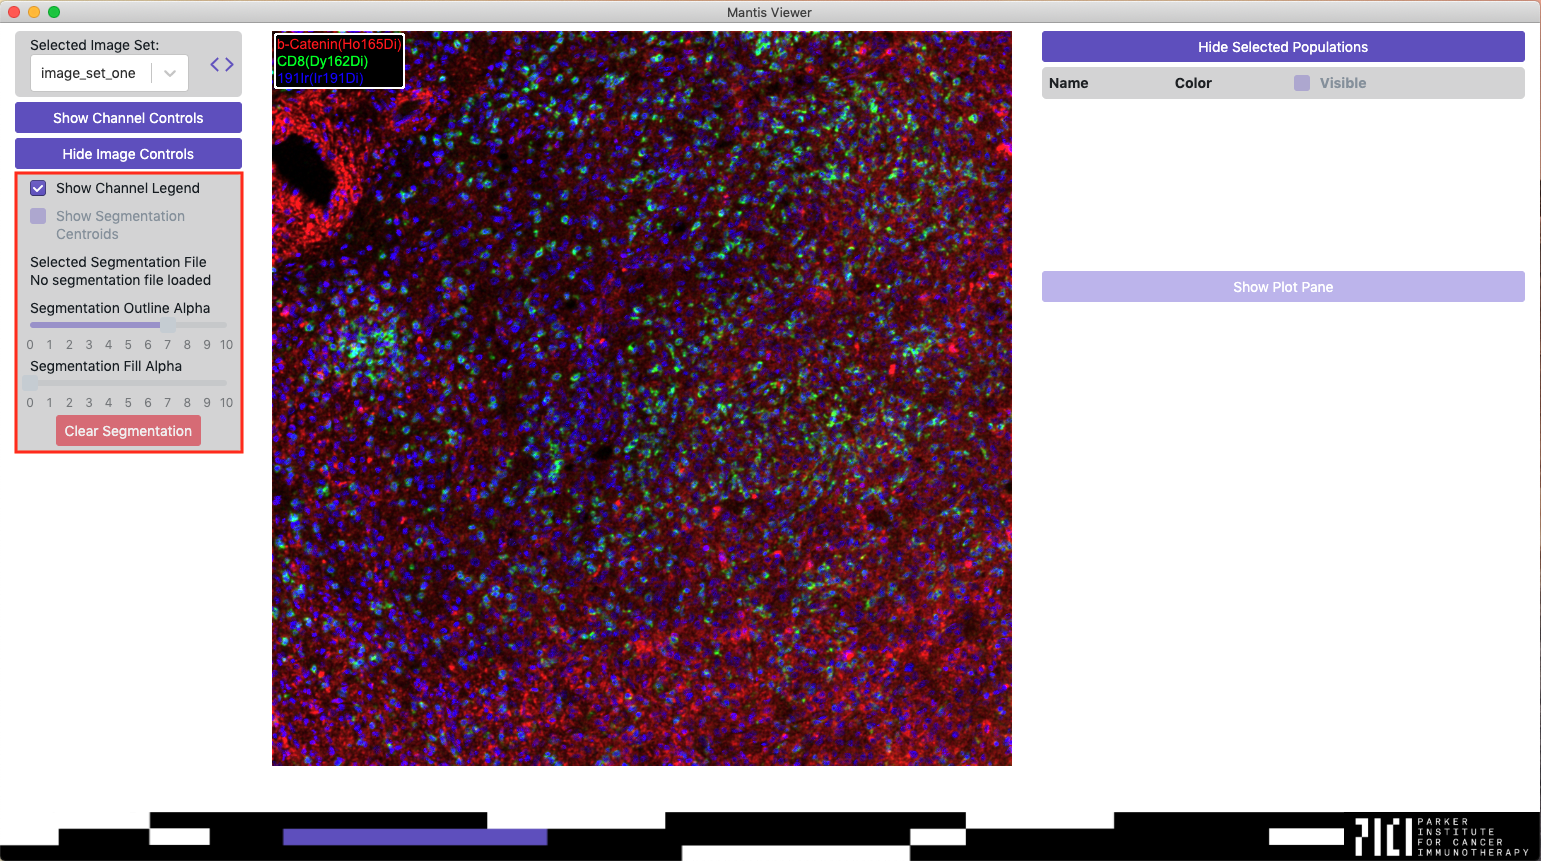
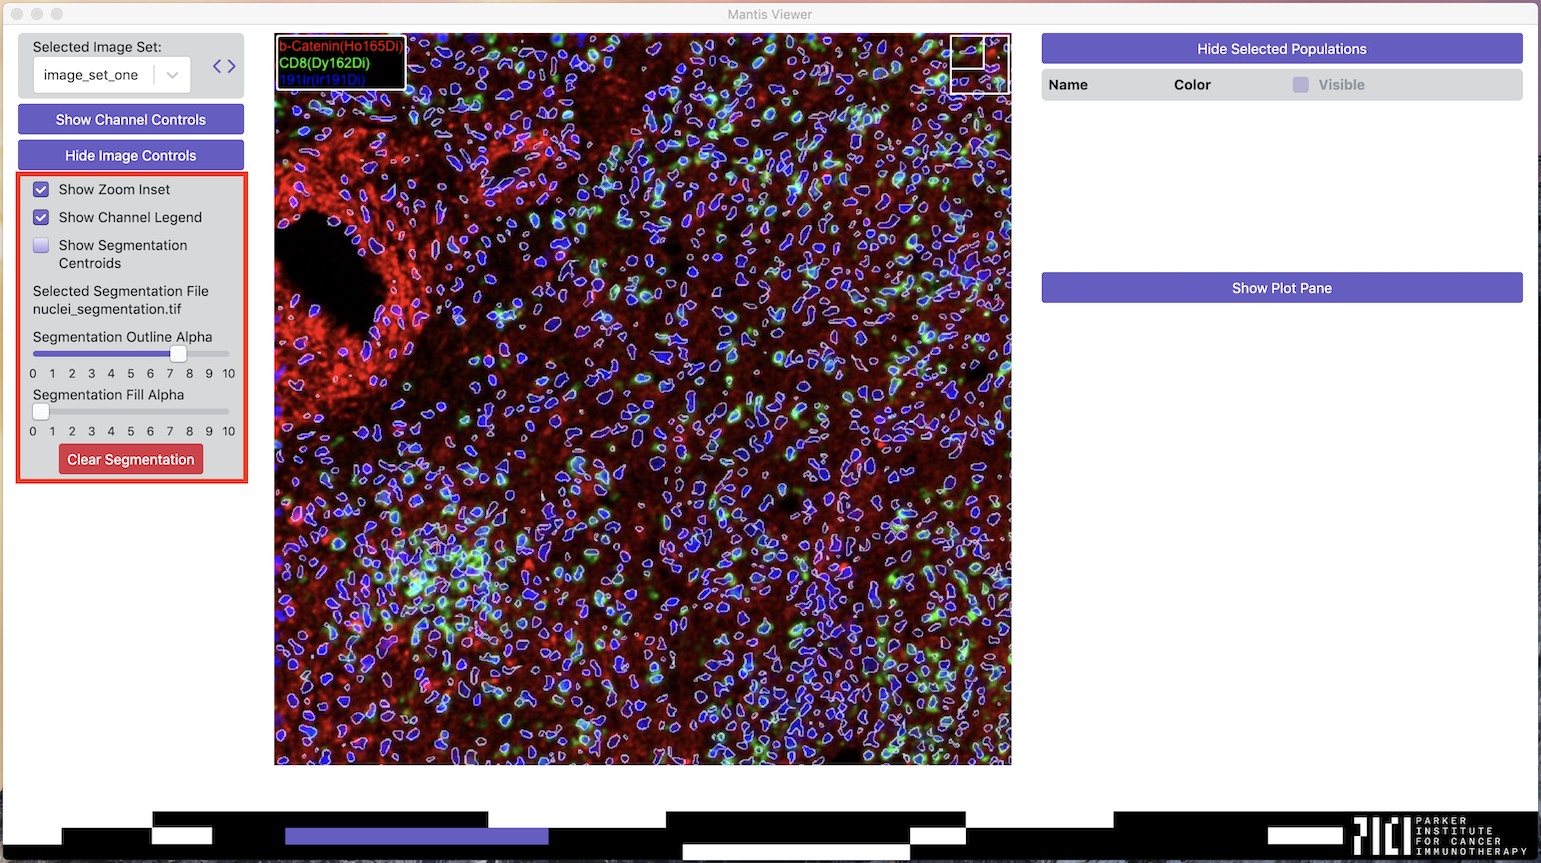
Update docs with zoom inset info.

diff --git a/images.md b/images.md
@@ -63,7 +63,7 @@ Other image controls that do not affect the channels can be accessed by clicking
 
 ![Image Controls](images/image_controls.png)
 
-From the Image Controls you can toggle the presence of a legend on the image that indicates which markers are currently visible and the channels they are selected for. Once [segmentation data]({% link segmentation.md %}) has been loaded, the Image Controls can also be used to adjust segmentation visualization settings.
+From the Image Controls you can toggle the presence of a zoom inset indicator and a legend on the image that indicates which markers are currently visible and the channels they are selected for. Once [segmentation data]({% link segmentation.md %}) has been loaded, the Image Controls can also be used to adjust segmentation visualization settings.
 
 ## Selected Regions and Populations
 
